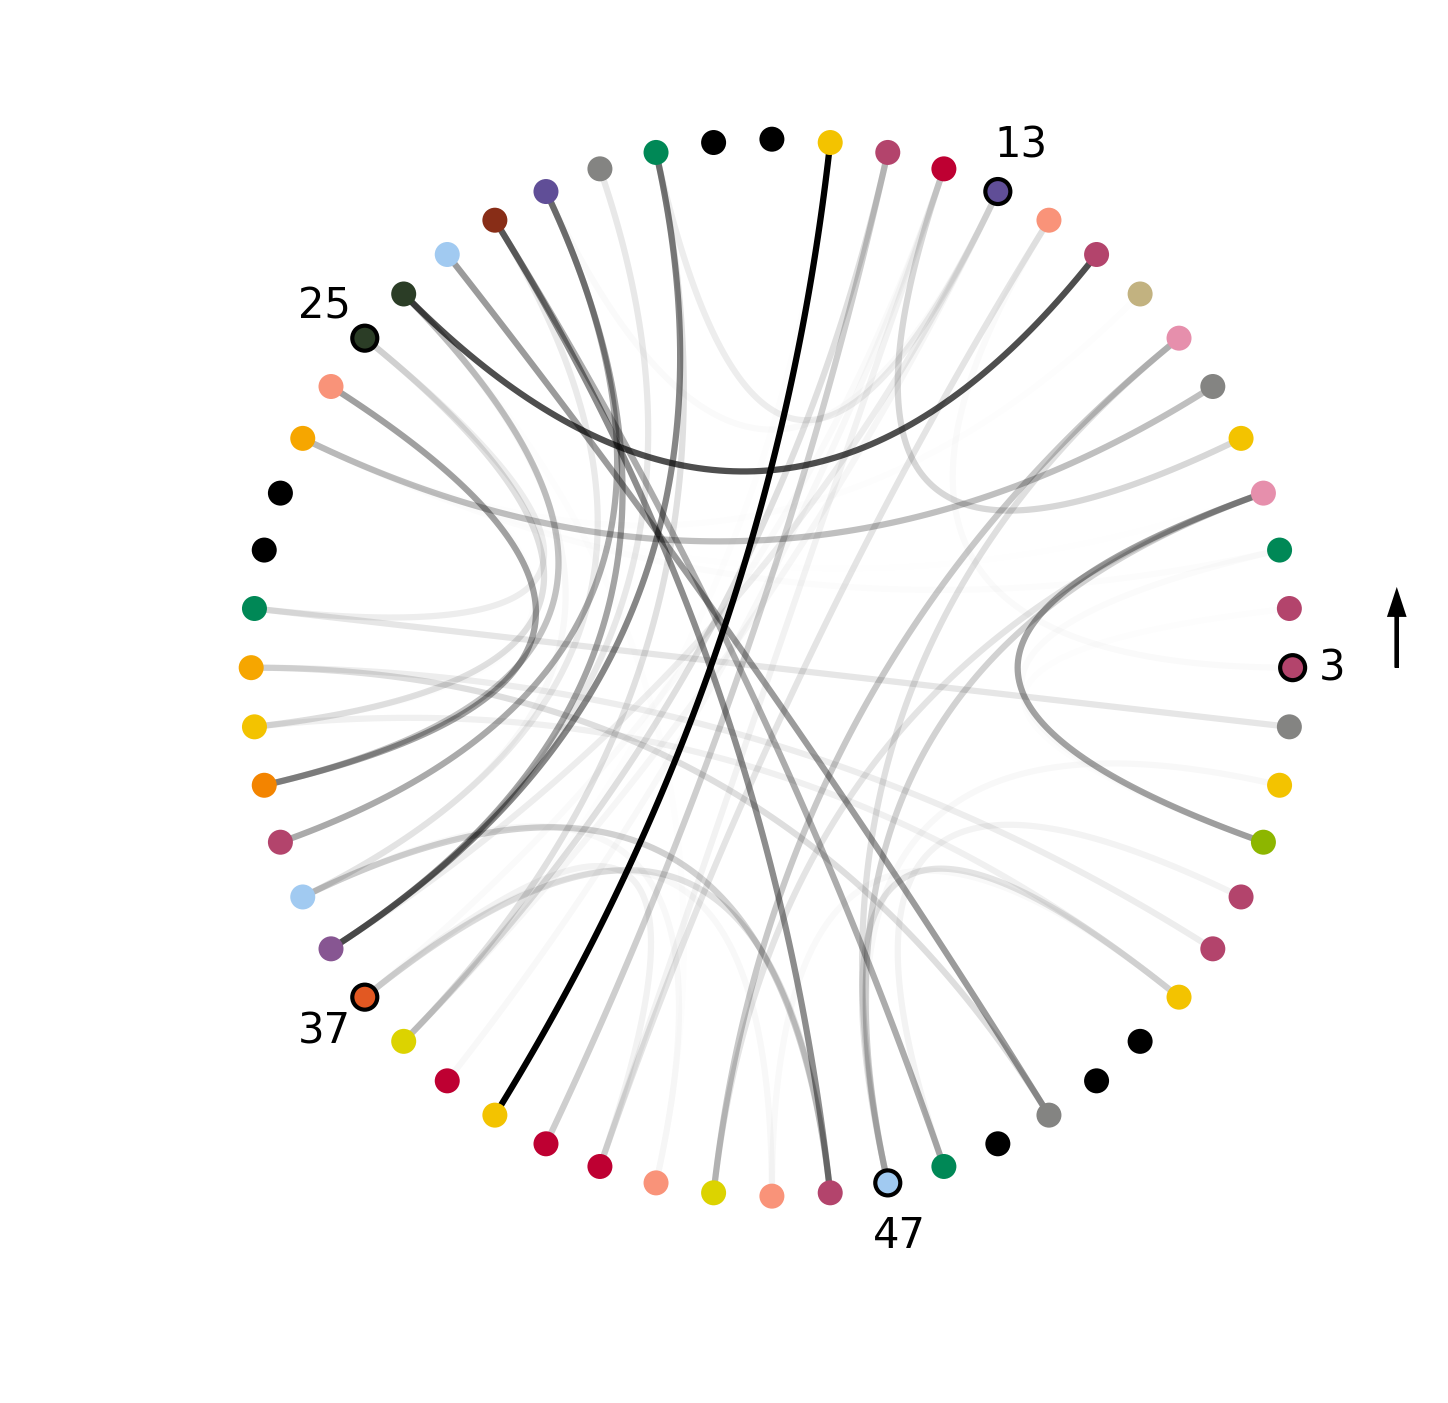
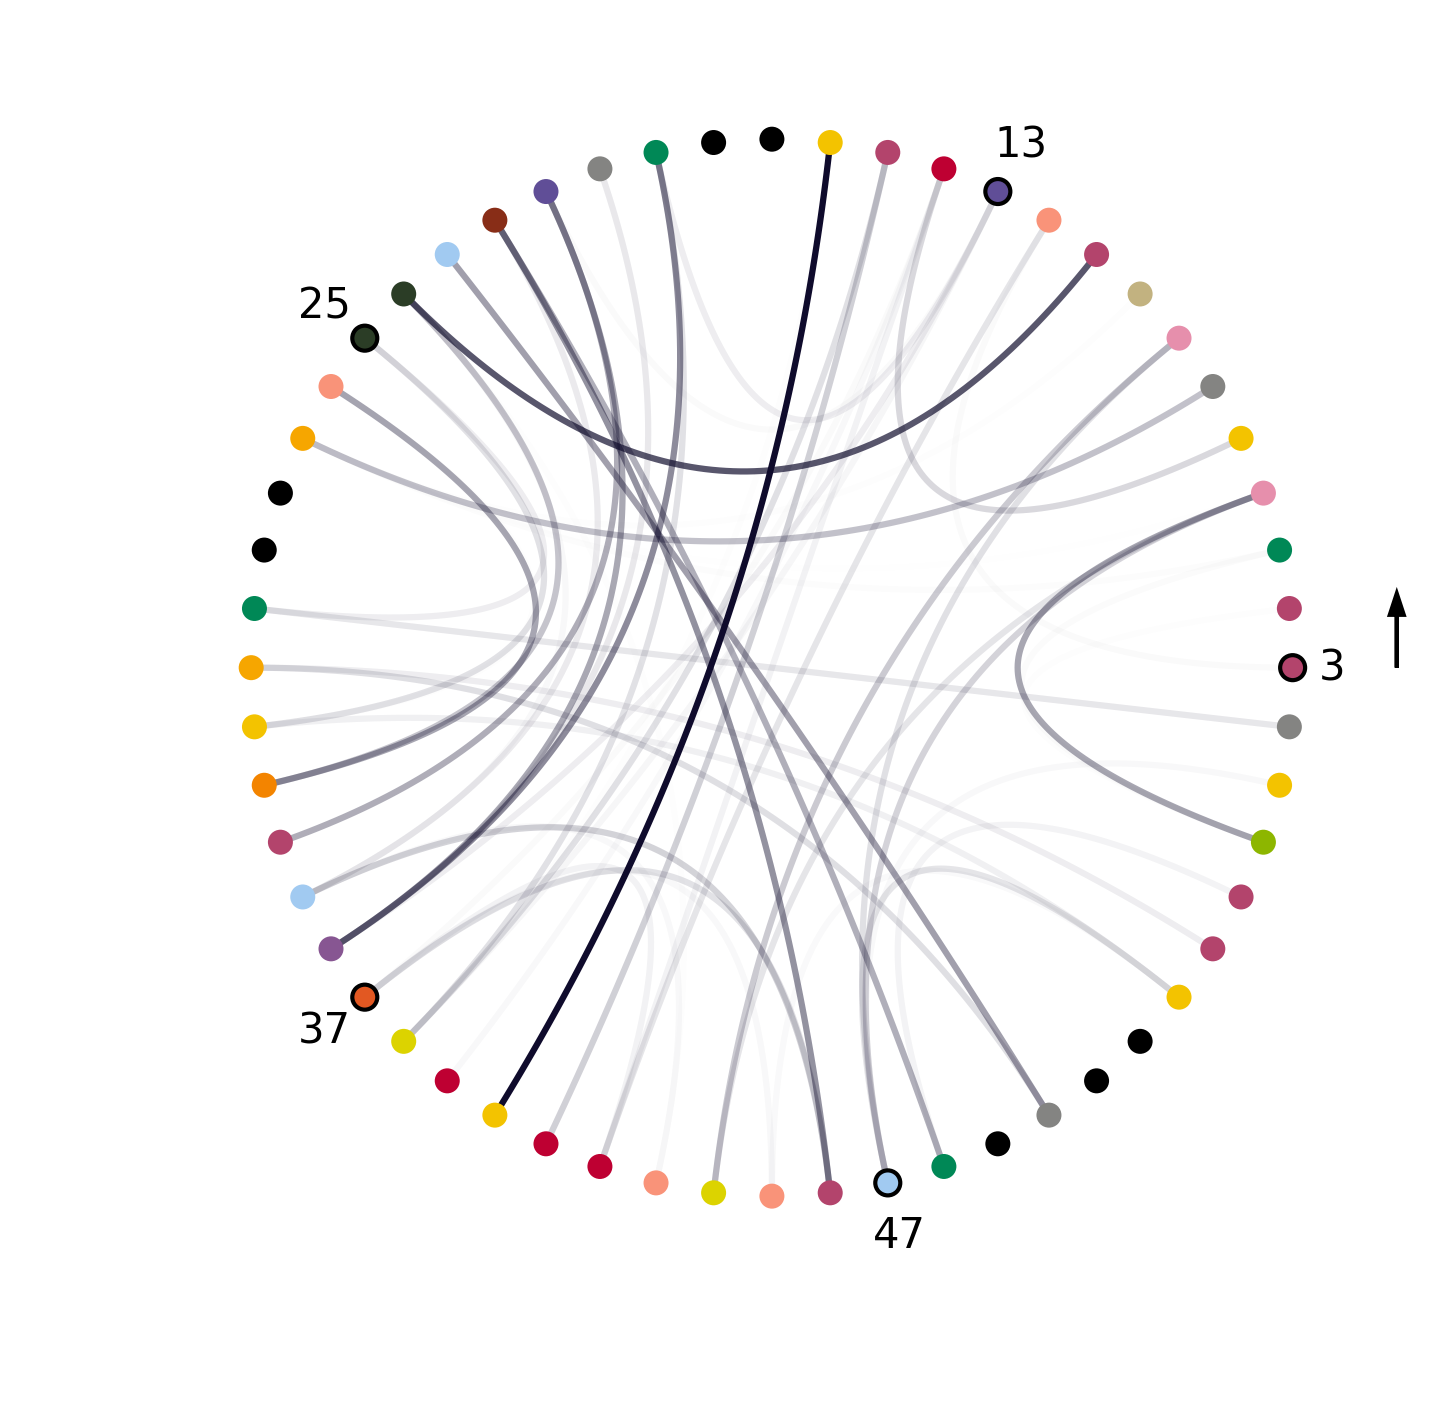
ContactMapChordFigure can use match/mismatch status to plot different colors. Also, use_conf implemented for ContactMapChordFigure

diff --git a/conkit/plot/ContactMapChordPlot.py b/conkit/plot/ContactMapChordPlot.py
@@ -11,6 +11,7 @@ __version__ = "0.1"
 import matplotlib.pyplot as plt
 import numpy as np
 
+from conkit.core import Contact
 from conkit.plot._Figure import Figure
 from conkit.plot._plottools import ColorDefinitions, points_on_circle
 
@@ -47,13 +48,15 @@ class ContactMapChordFigure(Figure):
 
     """
 
-    def __init__(self, hierarchy, **kwargs):
+    def __init__(self, hierarchy, use_conf=False, **kwargs):
         """A new contact map plot
 
         Parameters
         ----------
         hierarchy : :obj:`ContactMap <conkit.core.ContactMap>`
            The default contact map hierarchy
+        use_conf : bool, optional
+           The marker size will correspond to the raw score [default: False]
         **kwargs
            General :obj:`Figure <conkit.plot._Figure.Figure>` keyword arguments
 
@@ -62,6 +65,7 @@ class ContactMapChordFigure(Figure):
 
         self._hierarchy = None
         self.hierarchy = hierarchy
+        self.use_conf = use_conf
 
         self._draw()
 
@@ -95,8 +99,7 @@ class ContactMapChordFigure(Figure):
         hierarchy = self.hierarchy.rescale()
 
         # Obtain the data from the hierarchy
-        self_data = np.asarray([(c.res1, c.res1_seq, c.res2, c.res2_seq, c.raw_score)
-                                   for c in hierarchy])
+        self_data = np.asarray([(c.res1, c.res1_seq, c.res2, c.res2_seq, c.raw_score, c.status) for c in hierarchy])
         _drange = np.append(self_data[:, 1], self_data[:, 3]).astype(np.int64)
         self_data_range = np.arange(_drange.min(), _drange.max() + 1)
 
@@ -106,7 +109,7 @@ class ContactMapChordFigure(Figure):
 
         # Instantiate the figure
         fig, ax = plt.subplots()
-
+        
         # Calculate and plot the Bezier curves
         bezier_path = np.arange(0, 1.01, 0.01)
         for c in self_data:
@@ -115,7 +118,13 @@ class ContactMapChordFigure(Figure):
             xb, yb = [0, 0]                  # Midpoint the curve is supposed to approach
             x = (1 - bezier_path) ** 2 * x1 + 2 * (1 - bezier_path) * bezier_path * xb + bezier_path ** 2 * x2
             y = (1 - bezier_path) ** 2 * y1 + 2 * (1 - bezier_path) * bezier_path * yb + bezier_path ** 2 * y2
-            ax.plot(x, y, color="#000000", alpha=float(c[4]), linestyle="-", zorder=0)
+            # 0.0 transparent through 1.0 opaque
+            alpha = float(c[4]) if self.use_conf else 1.0
+            color = {
+                str(Contact._MISMATCH): ColorDefinitions.MISMATCH,
+                str(Contact._MATCH): ColorDefinitions.MATCH,
+            }.get(str(c[5]), ColorDefinitions.MATCH)
+            ax.plot(x, y, color=color, alpha=alpha, linestyle="-", zorder=0)
 
         # Get the amino acids if available
         #     - get the residue data from the original data array

diff --git a/conkit/command_line/conkit_plot.py b/conkit/command_line/conkit_plot.py
@@ -100,6 +100,8 @@ style with residues being connected by their contacts
     contact_map_chord_subparser.add_argument('-f', dest='dfactor', default=1.0, type=float,
                                              help='number of contacts to include relative to '
                                                   'sequence length [default: 1.0]')
+    contact_map_chord_subparser.add_argument('--confidence', action="store_true", default=False,
+                                             help='Plot the confidence scores')
     contact_map_chord_subparser.add_argument('seqfile',
                                              help="Path to the sequence file")
     contact_map_chord_subparser.add_argument('seqformat',
@@ -302,7 +304,8 @@ def main():
         con_sliced = con[:ncontacts]
         outformat = 'png'
         outfile = args.output if args.output else args.confile.rsplit('.', 1)[0] + '.' + outformat
-        plot = conkit.plot.ContactMapChordFigure(con_sliced, file_name=outfile, dpi=args.dpi)
+        plot = conkit.plot.ContactMapChordFigure(con_sliced, use_conf=args.confidence, file_name=outfile, 
+                                                 dpi=args.dpi)
 
     elif args.which == 'contact_density':
         logger.info('Min sequence separation for contacting residues: %d', args.dtn)
